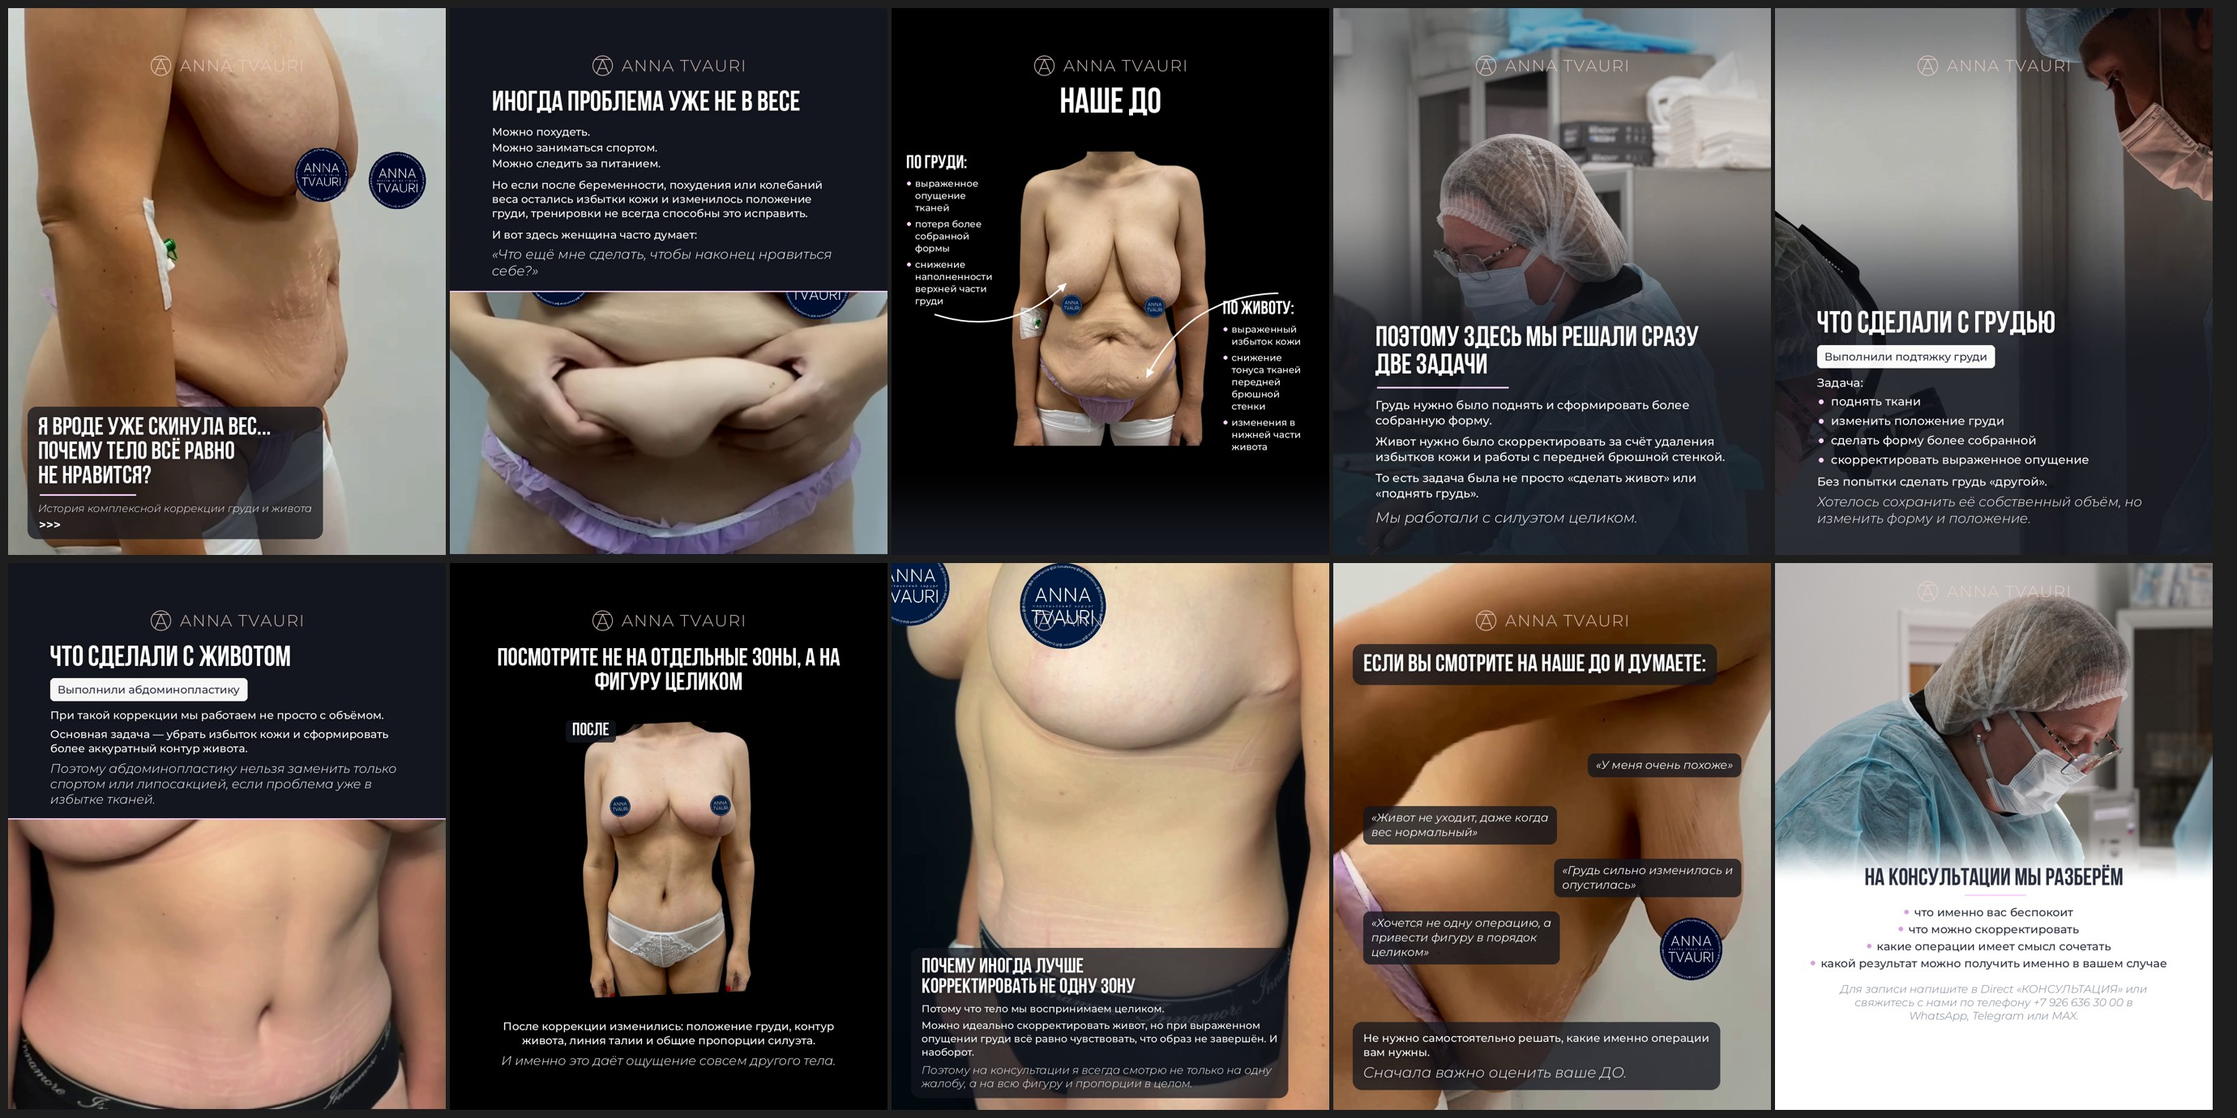
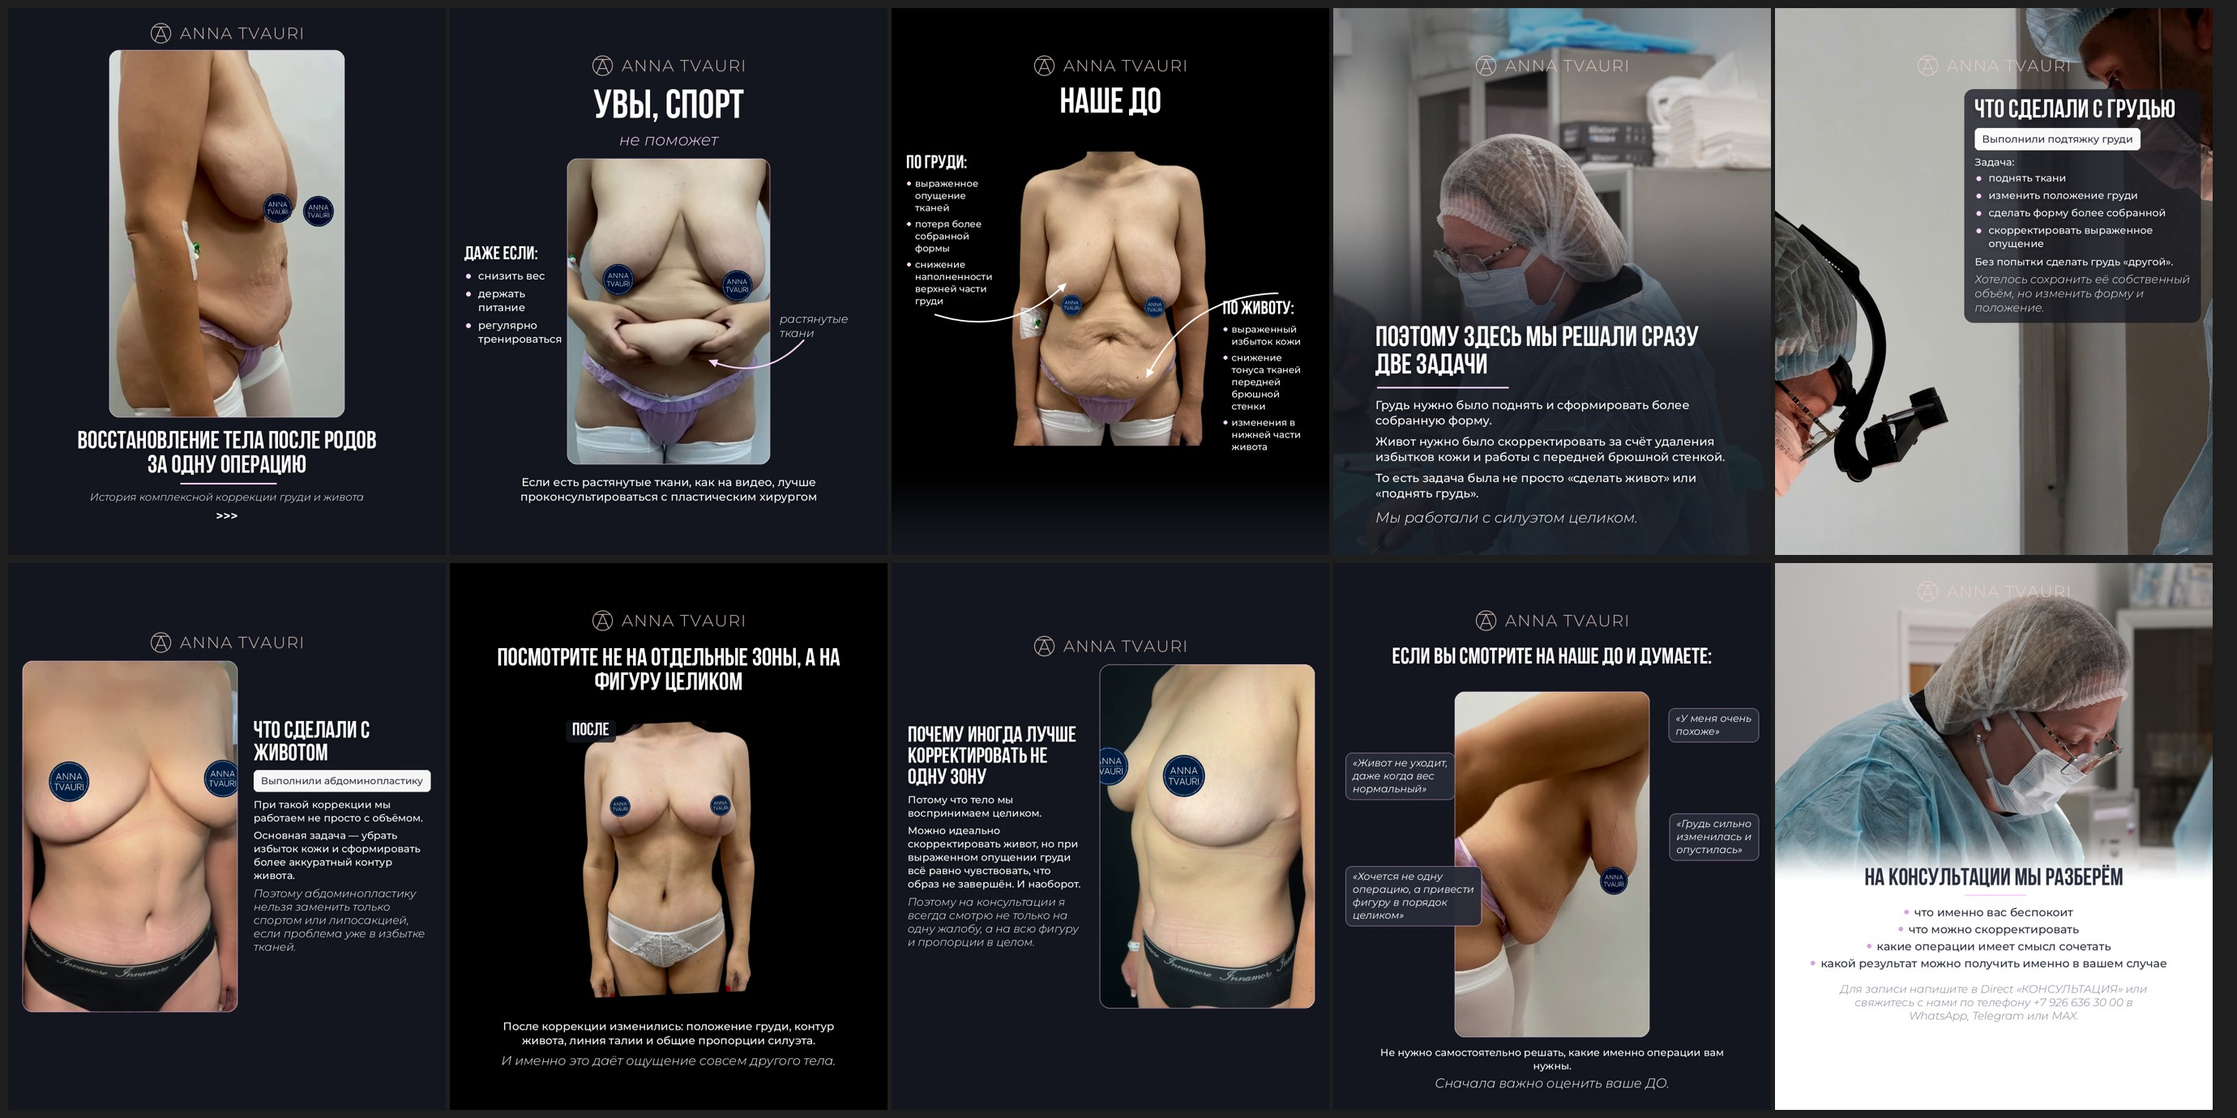
Carousel v7: framed whole-body footage, new cover and slide 2 copy, slide 5 text top-right
Claude-Session: https://claude.ai/code/session_01XB7jWmRDxB52StXcRzXaWE

diff --git a/carousel_lift_abdomino/preview.html b/carousel_lift_abdomino/preview.html
@@ -47,7 +47,7 @@ body{font-family:var(--body);padding-inline:16px;padding-block:24px 40px}
     <button class="nav next" id="next" aria-label="Следующий слайд">›</button>
   </div>
   <div class="dots" id="dots"></div>
-  <p class="cap"><b>anna.tvauri</b> Я вроде уже скинула вес... Почему тело всё равно не нравится? История комплексной коррекции груди и живота.</p>
+  <p class="cap"><b>anna.tvauri</b> Восстановление тела после родов за одну операцию. История комплексной коррекции груди и живота.</p>
 </article>
 <p class="hint">Листайте свайпом или стрелками. Видео в слайдах без звука, музыку добавляют при публикации.</p>
 

diff --git a/tools/carousel_tvauri.py b/tools/carousel_tvauri.py
@@ -375,22 +375,81 @@ def panel_video(name, srcs, block, out, src_top=0.4, speed=1.0, grade="", text_t
     os.remove(ovp)
 
 
+
+def frame_canvas(card, radius=26):
+    """graphite slide with a rounded window (alpha 0) where the footage shows through"""
+    x, y, w, h = card
+    c = Image.new("RGBA", (W, H), GRAPHITE + (255,))
+    m = Image.new("L", (W * 3, H * 3), 0)
+    ImageDraw.Draw(m).rounded_rectangle((x * 3, y * 3, (x + w) * 3, (y + h) * 3), radius=radius * 3, fill=255)
+    m = m.resize((W, H), Image.LANCZOS)
+    c.putalpha(Image.eval(m, lambda v: 255 - v))
+    ImageDraw.Draw(c).rounded_rectangle((x - 1, y - 1, x + w, y + h), radius=radius, outline=LILAC + (120,), width=2)
+    return c
+
+
+def framed_video(name, srcs, ov, out, card, src_top=0.0, speed=1.0, grade=""):
+    """whole body: footage scaled into a centred window, nothing cropped off the figure"""
+    x, y, w, h = card
+    ovp = os.path.join(OUT, f"_{name}_overlay.png"); ov.save(ovp)
+    ins, fl, dur = [], [], 0.0
+    for i, (f, a, b) in enumerate(srcs):
+        dur += ((b or probe_dur(os.path.join(SRC, f))) - a) / speed
+        ins += ["-ss", str(a)] + (["-to", str(b)] if b else []) + ["-i", os.path.join(SRC, f)]
+        fl.append(f"[{i}:v]scale={w}:-2:flags=lanczos,crop={w}:{h}:0:'min(ih-{h},ih*{src_top})',"
+                  f"setpts=PTS/{speed},setsar=1,fps=30,format=yuv420p[v{i}]")
+    n = len(srcs)
+    cat = "".join(f"[v{i}]" for i in range(n)) + f"concat=n={n}:v=1:a=0[cat]" if n > 1 else "[v0]null[cat]"
+    g = f"[cat]{grade}[g]" if grade else "[cat]null[g]"
+    fc = ";".join(fl + [cat, g, f"color=c=0x{GRAPHITE[0]:02x}{GRAPHITE[1]:02x}{GRAPHITE[2]:02x}:s={W}x{H}:r=30[bg]",
+                        f"[bg][g]overlay={x}:{y}:shortest=1[c]", f"[c][{n}:v]overlay=0:0:format=auto:shortest=1,format=yuv420p[out]"])
+    run(["ffmpeg", "-v", "error", "-y"] + ins + ["-loop", "1", "-i", ovp, "-f", "lavfi", "-i", "anullsrc=r=48000:cl=stereo",
+         "-filter_complex", fc, "-map", "[out]", "-map", f"{n + 1}:a", "-t", f"{dur:.3f}",
+         "-c:v", "libx264", "-preset", "medium", "-crf", "17", "-profile:v", "high", "-pix_fmt", "yuv420p",
+         "-c:a", "aac", "-b:a", "128k", "-movflags", "+faststart", out])
+    os.remove(ovp)
+
+
+def card_for(w, frac, x=None, y=None):
+    """window of width w showing the top `frac` of a 1080x1920 clip"""
+    h = int(1920 * w / 1080 * frac) // 2 * 2
+    return ((W - w) // 2 if x is None else x, (H - h) // 2 if y is None else y, w, h)
+
+
 # ---- 1. cover on the "before" footage
 def s01():
-    b = (Block().head("Я вроде уже скинула вес...\nПочему тело всё равно\nне нравится?", 62, 14).rule(0.22, 14)
-         .ital("История комплексной коррекции груди и живота", 26, 10).arrows())
-    render_video("01", [("IMG_3357.MOV", 0, None)], caption_overlay(b, 1290), f"{OUT}/01_cover.mp4",
-                 crop_y=0.55, grade=GRADE_WALL)
+    card = card_for(580, 0.88, y=104)
+    ov = frame_canvas(card); put_logo(ov, y=62)
+    b = (Block(W - 2 * MARGIN, "center").head("Восстановление тела после родов\nза одну операцию", 62, 12).rule(0.22, 14)
+         .ital("История комплексной коррекции груди и живота", 26, 0))
+    b.draw(ov, MARGIN, card[1] + card[3] + 30)
+    f3 = mont(30, 700); shadow_text(ov, ((W - f3.getlength(">>>")) / 2, card[1] + card[3] + 30 + b.height() + 12), ">>>", f3, WHITE)
+    framed_video("01", [("IMG_3357.MOV", 0, None)], ov, f"{OUT}/01_cover.mp4", card, grade=GRADE_WALL)
 
 
 # ---- 2. not about weight: text panel + pinch footage
 def s02():
-    b = (Block().head("Иногда проблема уже не в весе", 70, 20)
-         .body("Можно похудеть.", TS, 4).body("Можно заниматься спортом.", TS, 4).body("Можно следить за питанием.", TS, 18)
-         .body("Но если после беременности, похудения или колебаний веса остались избытки кожи и изменилось положение груди, тренировки не всегда способны это исправить.", TS, 18)
-         .body("И вот здесь женщина часто думает:", TS, 10)
-         .ital("«Что ещё мне сделать, чтобы наконец нравиться себе?»", 33, 0))
-    panel_video("02", [("IMG_3374.MOV", 1.9, None)], b, f"{OUT}/02_not_weight.mp4", src_top=0.36, speed=0.6, grade=GRADE_WALL)
+    card = card_for(500, 0.85, y=372)
+    x, y, w, h = card
+    ov = frame_canvas(card); put_logo(ov)
+    d = ImageDraw.Draw(ov)
+    t1 = bebas(100); tw = t1.getlength("УВЫ, СПОРТ"); d.text(((W - tw) / 2, 196), "УВЫ, СПОРТ", font=t1, fill=WHITE)
+    t2 = mont(40, 300, italic=True); tw = t2.getlength("не поможет"); d.text(((W - tw) / 2, 300), "не поможет", font=t2, fill=LILAC)
+    # left column: "даже если"
+    cw = x - 60
+    lb = Block(cw).head("Даже если:", 46, 14).bullets(["снизить вес", "держать питание", "регулярно тренироваться"], 26, 0)
+    lb.draw(ov, 36, y + h // 2 - lb.height() // 2 - 40)
+    # right column: pointer to the stretched tissue on the footage
+    rb = Block(cw).ital("растянутые ткани", 28, 0)
+    rx, ry = x + w + 24, y + int(h * 0.50)
+    rb.draw(ov, rx, ry)
+    S = 3; hi = Image.new("RGBA", (W * S, H * S), (0, 0, 0, 0))
+    pts = curve((rx + 60, ry + 70), (x + w * 0.70, y + h * 0.66), -0.35)
+    arrow(ImageDraw.Draw(hi), pts * S, col=LILAC + (255,), w=4 * S, head=20 * S)
+    ov.alpha_composite(hi.resize((W, H), Image.LANCZOS))
+    bb = Block(W - 2 * MARGIN + 40, "center").body("Если есть растянутые ткани, как на видео, лучше проконсультироваться с пластическим хирургом", 28, 0)
+    bb.draw(ov, MARGIN - 20, y + h + 26)
+    framed_video("02", [("IMG_3374.MOV", 1.9, None)], ov, f"{OUT}/02_not_weight.mp4", card, speed=0.6, grade=GRADE_WALL)
 
 
 # ---- 3. "наше до": before photo, findings with arrows
@@ -444,25 +503,33 @@ def s04():
 
 # ---- 5. breast: surgery footage
 def s05():
-    b = (Block().head("Что сделали с грудью", 76, 14)
-         .plaque("Выполнили подтяжку груди", 27, 18)
-         .body("Задача:", TS, 8)
+    bw = 560
+    b = (Block(bw).head("Что сделали с грудью", 64, 12)
+         .plaque("Выполнили подтяжку груди", 25, 14)
+         .body("Задача:", 25, 6)
          .bullets(["поднять ткани", "изменить положение груди", "сделать форму более собранной",
-                   "скорректировать выраженное опущение"], TS, 16)
-         .body("Без попытки сделать грудь «другой».", TS, 10)
-         .ital("Хотелось сохранить её собственный объём, но изменить форму и положение.", 33, 0))
-    render_video("05", [("IMG_8058.mov", 0, None)], text_overlay(b, bottom=1280), f"{OUT}/05_breast.mp4",
+                   "скорректировать выраженное опущение"], 25, 12)
+         .body("Без попытки сделать грудь «другой».", 25, 8)
+         .ital("Хотелось сохранить её собственный объём, но изменить форму и положение.", 28, 0))
+    ov = Image.new("RGBA", (W, H), (0, 0, 0, 0)); put_logo(ov)
+    boxed(ov, b, W - 56 - int(b.max_width()), 222)
+    render_video("05", [("IMG_8058.mov", 0, None)], ov, f"{OUT}/05_breast.mp4",
                  crop_y=0.0, grade="eq=brightness=-0.03:contrast=1.04")
 
 
 # ---- 6. abdomen: text panel + "after" belly footage
 def s06():
-    b = (Block().head("Что сделали с животом", 72, 14)
-         .plaque("Выполнили абдоминопластику", 27, 18)
-         .body("При такой коррекции мы работаем не просто с объёмом.", TS, 12)
-         .body("Основная задача — убрать избыток кожи и сформировать более аккуратный контур живота.", TS, 12)
-         .ital("Поэтому абдоминопластику нельзя заменить только спортом или липосакцией, если проблема уже в избытке тканей.", 31, 0))
-    panel_video("06", [("IMG_3378.MOV", 0, None)], b, f"{OUT}/06_abdomen.mp4", src_top=0.42, grade=GRADE_DARK)
+    card = card_for(530, 0.92, x=36)
+    x, y, w, h = card
+    ov = frame_canvas(card); put_logo(ov, y=card[1] - 46 if card[1] > 120 else 62)
+    cw = W - (x + w) - 76
+    b = (Block(cw).head("Что сделали с животом", 58, 12)
+         .plaque("Выполнили абдоминопластику", 24, 16)
+         .body("При такой коррекции мы работаем не просто с объёмом.", 25, 10)
+         .body("Основная задача — убрать избыток кожи и сформировать более аккуратный контур живота.", 25, 10)
+         .ital("Поэтому абдоминопластику нельзя заменить только спортом или липосакцией, если проблема уже в избытке тканей.", 27, 0))
+    b.draw(ov, x + w + 40, y + h // 2 - b.height() // 2)
+    framed_video("06", [("IMG_3378.MOV", 0, None)], ov, f"{OUT}/06_abdomen.mp4", card, grade=GRADE_DARK)
 
 
 # ---- 7. whole figure: before -> after wipe with the slide text
@@ -518,34 +585,39 @@ def s07():
 
 # ---- 8. why several zones: text panel + "after" footage on the dark backdrop
 def s08():
-    b = (Block(W - 2 * MARGIN + 20).head("Почему иногда лучше\nкорректировать не одну зону", 52, 12)
-         .body("Потому что тело мы воспринимаем целиком.", 25, 8)
+    card = card_for(530, 0.90, x=W - 36 - 530)
+    x, y, w, h = card
+    ov = frame_canvas(card); put_logo(ov, y=card[1] - 46 if card[1] > 120 else 62)
+    cw = x - 76
+    b = (Block(cw).head("Почему иногда лучше корректировать не одну зону", 54, 12)
+         .body("Потому что тело мы воспринимаем целиком.", 25, 10)
          .body("Можно идеально скорректировать живот, но при выраженном опущении груди всё равно чувствовать, что образ не завершён. И наоборот.", 25, 10)
          .ital("Поэтому на консультации я всегда смотрю не только на одну жалобу, а на всю фигуру и пропорции в целом.", 27, 0))
-    render_video("08", [("IMG_3376.MOV", 0, None), ("IMG_3377.MOV", 0, None)], caption_overlay(b, 1300),
-                 f"{OUT}/08_whole_body.mp4", crop_y=0.80, grade=GRADE_DARK)
+    b.draw(ov, 40, y + h // 2 - b.height() // 2)
+    framed_video("08", [("IMG_3376.MOV", 0, None), ("IMG_3377.MOV", 0, None)], ov, f"{OUT}/08_whole_body.mp4", card, grade=GRADE_DARK)
 
 
 # ---- 9. "if you look at our before": quotes over the before footage (reference layout)
 def s09():
-    ov = Image.new("RGBA", (W, H), (0, 0, 0, 0))
-    hb = Block().head("Если вы смотрите на наше до и думаете:", 60, 0)
-    put_logo(ov); boxed(ov, hb, MARGIN - 30, 222)
-    quotes = [("«У меня очень похоже»", "right", 470), ("«Живот не уходит, даже когда вес нормальный»", "left", 600),
-              ("«Грудь сильно изменилась и опустилась»", "right", 730),
-              ("«Хочется не одну операцию, а привести фигуру в порядок целиком»", "left", 860)]
-    f = mont(28, 400, italic=True); d = ImageDraw.Draw(ov)
-    for q, al, y in quotes:
-        lines = wrap(q, f, 470); lh = 36
-        w_ = max(f.getlength(l) for l in lines) + 40; h_ = lh * len(lines) + 22
-        x = MARGIN - 30 if al == "left" else W - MARGIN + 30 - w_
-        d.rounded_rectangle((x, y, x + w_, y + h_), radius=16, fill=GRAPHITE + (200,))
-        for i, l in enumerate(lines): d.text((x + 20, y + 10 + i * lh), l, font=f, fill=WHITE)
-    b = (Block().body("Не нужно самостоятельно решать, какие именно операции вам нужны.", TS, 10)
-         .ital("Сначала важно оценить ваше ДО.", 36, 0))
-    y = 1280 - b.height()
-    boxed(ov, b, MARGIN - 30, y)
-    render_video("09", [("IMG_3358.MOV", 0, None)], ov, f"{OUT}/09_if_you.mp4", crop_y=0.17, grade=GRADE_WALL)
+    card = card_for(480, 1.0, y=318)
+    x, y, w, h = card
+    ov = frame_canvas(card); put_logo(ov)
+    hb = Block(W - 2 * MARGIN, "center").head("Если вы смотрите на наше до и думаете:", 56, 0)
+    hb.draw(ov, MARGIN, 206)
+    quotes = [("«У меня очень похоже»", "right", y + 40), ("«Живот не уходит, даже когда вес нормальный»", "left", y + 150),
+              ("«Грудь сильно изменилась и опустилась»", "right", y + 300),
+              ("«Хочется не одну операцию, а привести фигуру в порядок целиком»", "left", y + 430)]
+    f = mont(25, 400, italic=True); d = ImageDraw.Draw(ov)
+    for q, al, qy in quotes:
+        lines = wrap(q, f, 300); lh = 32
+        w_ = max(f.getlength(l) for l in lines) + 36; h_ = lh * len(lines) + 20
+        qx = 30 if al == "left" else W - 30 - w_
+        d.rounded_rectangle((qx, qy, qx + w_, qy + h_), radius=16, fill=(40, 44, 58, 235), outline=LILAC + (110,), width=2)
+        for i, l in enumerate(lines): d.text((qx + 18, qy + 9 + i * lh), l, font=f, fill=WHITE)
+    b = (Block(W - 2 * MARGIN, "center").body("Не нужно самостоятельно решать, какие именно операции вам нужны.", 25, 6)
+         .ital("Сначала важно оценить ваше ДО.", 32, 0))
+    b.draw(ov, MARGIN, y + h + 22)
+    framed_video("09", [("IMG_3358.MOV", 0, None)], ov, f"{OUT}/09_if_you.mp4", card, grade=GRADE_WALL)
 
 
 # ---- 10. consultation + contacts: surgeon photo, white panel
